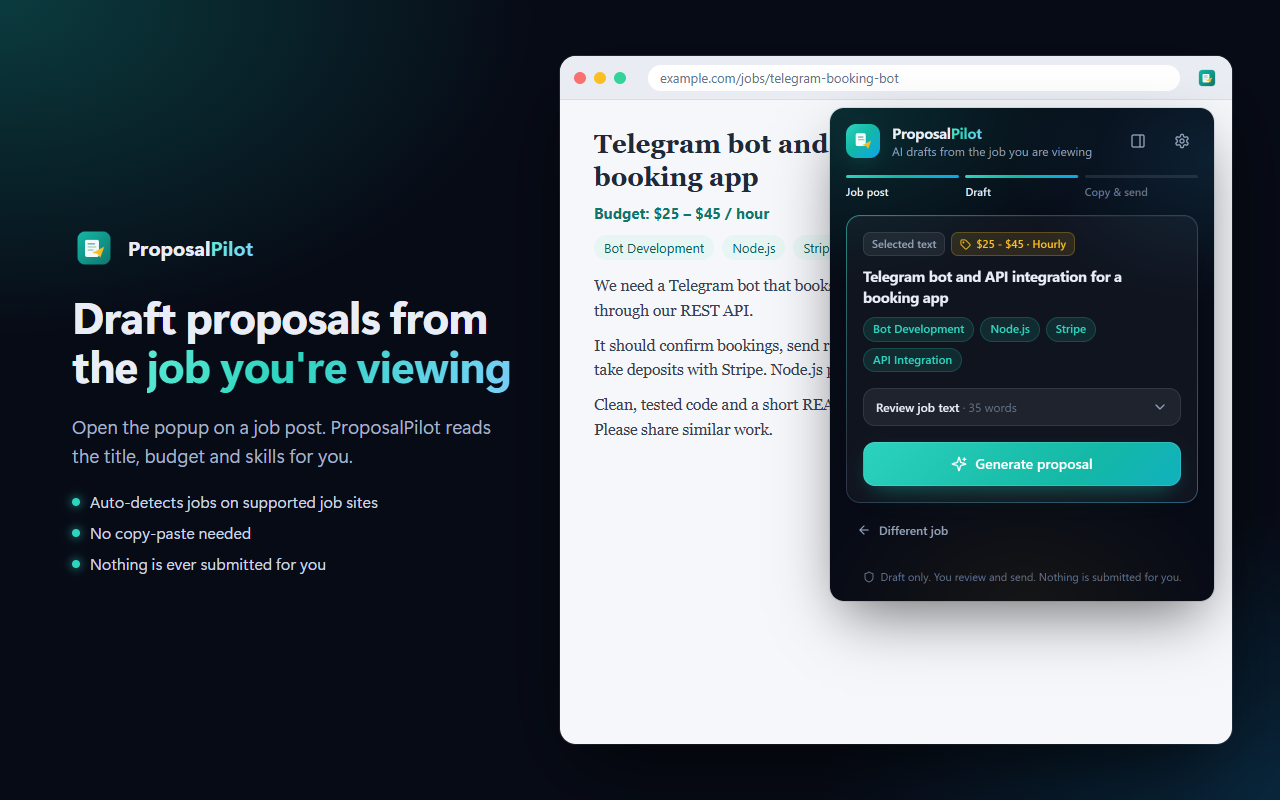
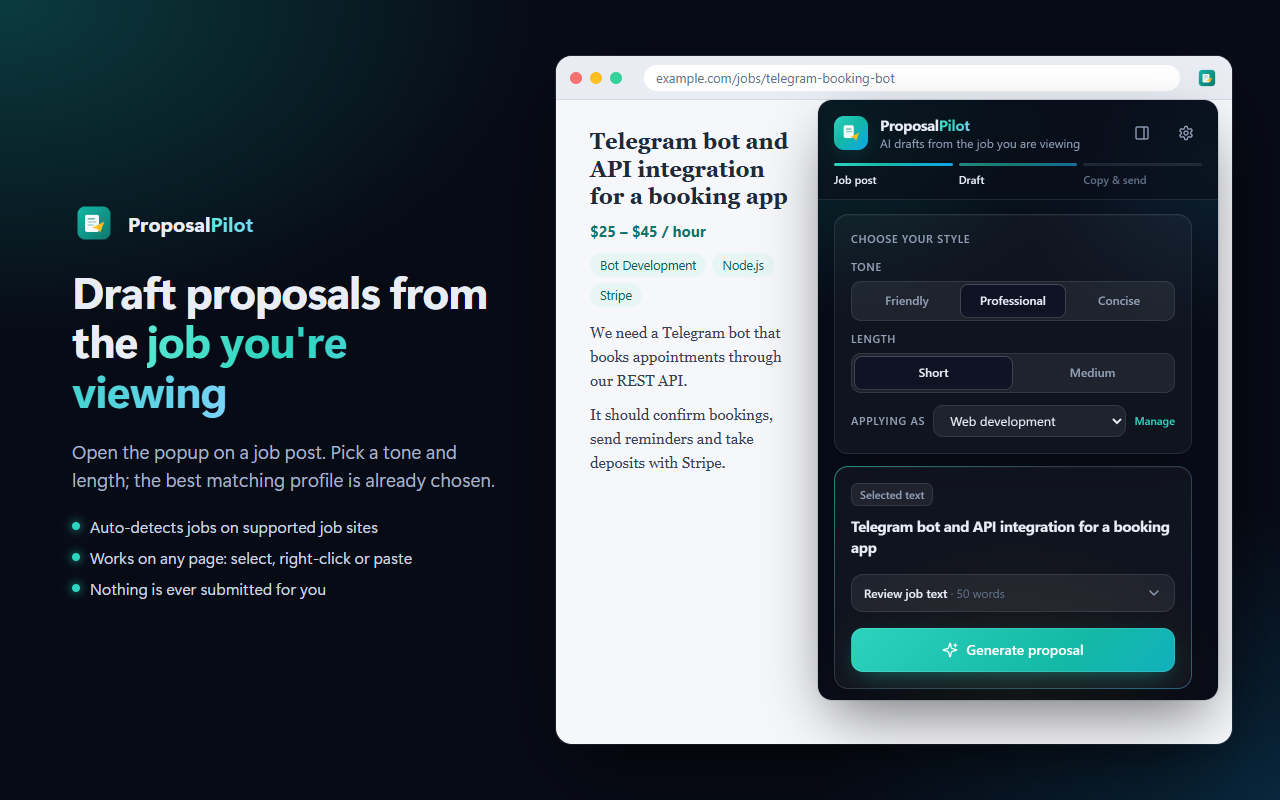
chore: release v1.1.0

Changed region(s): [[0.4062, 0.0938, 0.9688, 0.9375], [0.0312, 0.25, 0.4062, 0.75], [0.8438, 0.4375, 0.875, 0.4688]]

diff --git a/backend/app/config.py b/backend/app/config.py
@@ -22,7 +22,7 @@ class Settings(BaseSettings):
     daily_request_cap: int = 500
     redis_url: str = ""
     admin_ping_secret: str = ""
-    app_version: str = "1.0.3"
+    app_version: str = "1.1.0"
 
     def origins_list(self) -> list[str]:
         if not self.allowed_origins.strip():

diff --git a/docs/store-listing.md b/docs/store-listing.md
@@ -6,7 +6,7 @@ ProposalPilot - AI Proposal Drafts for Freelancers
 
 ## Summary (max 132)
 
-Reads the job post you are viewing and drafts a tailored proposal with a price and delivery estimate. You review and send.
+Drafts a tailored proposal from the job you are viewing, using your niche profile, with a fair price and delivery time.
 
 ## Single purpose
 
@@ -18,48 +18,56 @@ Productivity
 
 ## Detailed description
 
-ProposalPilot helps freelancers draft better proposals faster.
+ProposalPilot helps freelancers write better proposals faster, from their real experience.
 
-How it works:
-1. Open a freelance job post in Chrome.
-2. Click the ProposalPilot toolbar icon (or press Alt+Shift+P).
-3. Detect the job on Fiverr or Upwork. On any other site, highlight the job text, right-click and choose "Draft proposal with ProposalPilot", or paste the text into the panel.
-4. Generate a draft proposal with a suggested price and delivery estimate.
-5. Edit, copy, and paste it yourself into the marketplace. ProposalPilot never submits for you.
+Set up once:
+- A welcome page guides you through your profile in four short steps.
+- Create one profile per niche (web development, WordPress, design, data...). The best match is picked for each job, and you can switch.
+
+Draft in seconds:
+1. Open a freelance job post and click the ProposalPilot icon (or press Alt+Shift+P).
+2. The job is detected on Fiverr and Upwork. On any other site, highlight the job text and right-click "Draft proposal with ProposalPilot", or paste it.
+3. Choose a tone and length, then click Generate.
+4. Get a short, specific draft, a fair price based on working hours and your rate, a competitive delivery time and a question to ask the client.
+5. Edit, copy and send it yourself. ProposalPilot never submits anything for you.
+
+Also:
+- In your Fiverr inbox, find out whether a client actually described a project or just said hello.
+- Optional sign-in with Google backs up your profiles and proposal history and syncs them across computers.
+- Light and dark themes.
 
 Privacy:
+- Job text and the chosen profile are sent to our server and our AI provider (Groq) only when you click Generate, and are not stored there.
 - Fiverr chats are checked only when you click Check for project, with names removed.
-- Job text and your profile are sent to the ProposalPilot server and our AI provider (Groq) only when you click Generate, and are not stored on the server.
-- History and profile stay on your device.
-- No accounts. No auto-submit. No bulk scraping.
-
-Limits:
-- You must review every draft. The AI only uses facts from your saved profile.
+- Without sign-in, profiles and history stay in your browser. With sign-in, they are stored in your private account.
+- No auto-submit. No bulk scraping.
 
 ## Permission justifications
 
-See `docs/permissions.md`.
+See `docs/permissions.md`. New in 1.1.0:
 
-## Data usage disclosure
+**identity:** Used only when the user clicks "Sign in with Google" to turn on optional cloud sync. chrome.identity.launchWebAuthFlow opens Google's sign-in window and returns the result to the extension, so profiles and proposal history can be backed up and synced. No sign-in happens unless the user asks for it.
 
-- Handles website content (job text from the page you view), personal communications (messages of an open Fiverr inbox conversation, only when the user clicks Check for project, with names removed) and user-provided profile text.
-- In the Chrome Web Store privacy tab, tick: Personally identifiable information (the name in the saved profile), Personal communications, Website content.
-- Data is not sold.
-- Data is not used for unrelated purposes.
-- Data is not used for creditworthiness or lending.
+## Data usage disclosure (Privacy tab)
 
-## Reviewer test instructions
+Tick:
 
-No marketplace account is needed.
+- **Personally identifiable information**: name in the profile; name and email from Google when the user signs in
+- **Authentication information**: the sign-in session stored when the user signs in with Google
+- **Personal communications**: messages of an open Fiverr inbox conversation, only when the user clicks Check for project, with names removed
+- **Website content**: job text from the page the user is viewing
 
-1. Install the extension. The profile page opens automatically: fill in name, headline and at least one skill, then save.
-2. Open the demo job post: https://shayan9689.github.io/Browser-extension-for-freelancers/demo/job-post.html
-3. Select the job title and description with the mouse.
-4. Click the ProposalPilot toolbar icon. The popup opens with the selected job ready.
-   (Also works: right-click the selection and choose **Draft proposal with ProposalPilot**.)
-   (Alternative: in the popup, expand **Paste job text**, paste the text and click **Use this text**.)
-5. Click **Generate proposal**. Expected: within ~20 seconds an editable draft appears with a suggested price and delivery estimate.
-6. Click **Copy**: the draft is placed on the clipboard. Nothing is ever submitted to any website.
+Certify:
+
+- Data is not sold to third parties.
+- Data is not used or transferred for purposes unrelated to the single purpose.
+- Data is not used or transferred to determine creditworthiness or for lending.
+
+## Reviewer test instructions (under 500 characters)
+
+```
+No account needed. 1) Install: the welcome page opens. Click Set up your profile, fill the 4 steps (any name, 3 skills, 1 achievement), Finish. 2) Open https://shayan9689.github.io/Browser-extension-for-freelancers/demo/job-post.html and select the job text. 3) Click the toolbar icon, choose a Tone and Length, click Generate proposal. A draft with price and delivery appears in ~20s. Google sign-in in Settings is optional.
+```
 
 ## Store artwork
 
@@ -72,11 +80,11 @@ No marketplace account is needed.
 Files in `extension/store-assets/screenshots/`, in this order. Content is made up; no marketplace
 names or logos.
 
-1. `screenshot-1-detect.png`: job detected from the page
+1. `screenshot-1-detect.png`: job ready, tone and length chosen first
 2. `screenshot-2-draft.png`: generated draft with price and delivery
-3. `screenshot-3-anysite.png`: works on any site (selection, right-click, paste)
-4. `screenshot-4-chat.png`: inbox chat checked for a project
-5. `screenshot-5-profile.png`: profile settings
+3. `screenshot-3-setup.png`: guided four-step profile setup
+4. `screenshot-4-profiles.png`: niche profiles, history and cloud sync
+5. `screenshot-5-chat.png`: inbox chat checked for a project
 
 ## Privacy policy URL
 

diff --git a/docs/privacy-policy.md b/docs/privacy-policy.md
@@ -1,6 +1,6 @@
 # Privacy Policy — ProposalPilot
 
-**Last updated:** 2026-11-13
+**Last updated:** 2026-11-15
 
 ProposalPilot helps freelancers draft proposals from the job post they are viewing.
 
@@ -9,30 +9,44 @@ ProposalPilot helps freelancers draft proposals from the job post they are viewi
 When you click **Generate proposal**, the extension sends:
 
 - The job text extracted (or selected) from the page you are viewing
-- The profile text you saved locally (name, headline, skills, experience, rate, highlights)
+- The profile you chose for that job (name, headline, skills, experience level, years, rate, achievements)
 - An anonymous `install_id` used only for rate limiting
 
 When you click **Check for project** in a Fiverr inbox conversation, the extension sends the messages of that open conversation so the AI can tell whether the client described a project. Each message is labelled only as "client" or "me": usernames and display names are removed first. The conversation is not stored or logged on the server.
 
 The ProposalPilot server also sees your IP address, as any web server does. It is used only for rate limiting and abuse prevention.
 
+## Optional account and cloud sync
+
+Signing in is optional. Without it, everything stays in your browser.
+
+If you click **Sign in with Google**:
+
+- Google shares your **name, email address and profile picture** with our authentication provider, Supabase. We use them only to identify your account and show who is signed in.
+- Your **profiles** (all fields you entered) and your **proposal history** (job title, platform, draft text, suggested price, the profile used and the date) are stored in our Supabase database so they can be restored and synced across your browsers.
+- Row level security limits every account to its own data. We do not read, share or analyse it.
+- A sign-in session is kept in `chrome.storage.local` so you stay signed in. **Sign out** removes it.
+
 ## What we do **not** do
 
-- We do **not** store or log job text, conversation messages or profile text on the server
-- We do **not** create user accounts
+- We do **not** store or log job text, conversation messages or profile text on the AI server
+- We do **not** create an account unless you choose to sign in
 - We do **not** sell your data
 - We do **not** use your data for creditworthiness, lending, or unrelated advertising
-- History and profile remain on your device in `chrome.storage.local` until you export or delete them
+- Without sign-in, history and profiles remain on your device in `chrome.storage.local` until you export or delete them
 
 ## Third parties
 
-The ProposalPilot server sends the job text and your profile text to Groq, our AI model provider, to generate the draft, and for no other purpose. Groq processes it under its API data policy (https://console.groq.com/docs/your-data) and privacy policy (https://groq.com/privacy-policy).
+- **Groq** (AI model provider): the ProposalPilot server sends the job text and the chosen profile to Groq to generate the draft, and for no other purpose. Groq processes it under its API data policy (https://console.groq.com/docs/your-data) and privacy policy (https://groq.com/privacy-policy).
+- **Supabase** (database and sign-in, only if you sign in): stores your account, profiles and proposal history. Privacy policy: https://supabase.com/privacy
+- **Google** (sign-in, only if you sign in): verifies your Google account. Privacy policy: https://policies.google.com/privacy
 
-## Data retention
+## Data retention and deletion
 
-Server-side: none for job/profile content. Rate-limit counters keep the anonymous `install_id` and IP address temporarily (in memory or Redis) and expire automatically.
-
-On-device: until you clear them via **Delete all data** in Settings.
+- AI server: none for job, conversation or profile content. Rate-limit counters keep the anonymous `install_id` and IP address temporarily and expire automatically.
+- Cloud sync: kept until you delete it. Deleting a profile or draft in the extension also deletes it from your account on the next sync. Only your 300 most recent drafts are kept.
+- On-device: until you clear it with **Delete local data** in Settings.
+- To delete your account and all synced data, email us from the address you signed in with. We delete it within 30 days.
 
 ## Contact
 

diff --git a/CHANGELOG.md b/CHANGELOG.md
@@ -2,7 +2,7 @@
 
 All notable changes to this project will be documented in this file.
 
-## [Unreleased]
+## [1.1.0] - 2026-11-15
 
 ### Added
 
